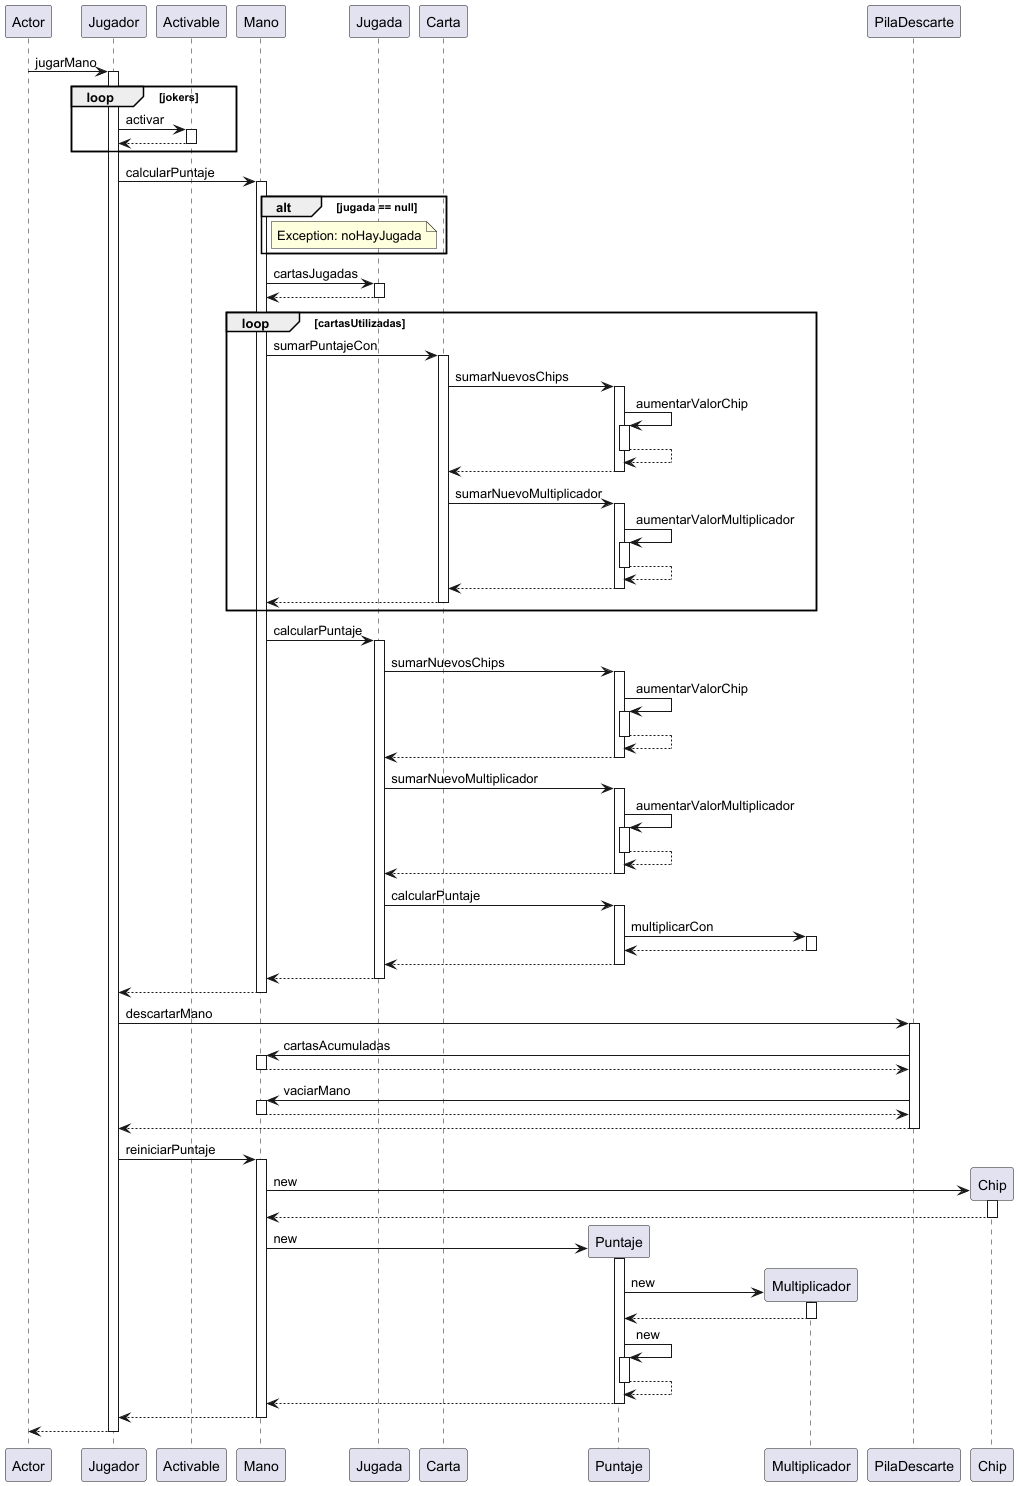
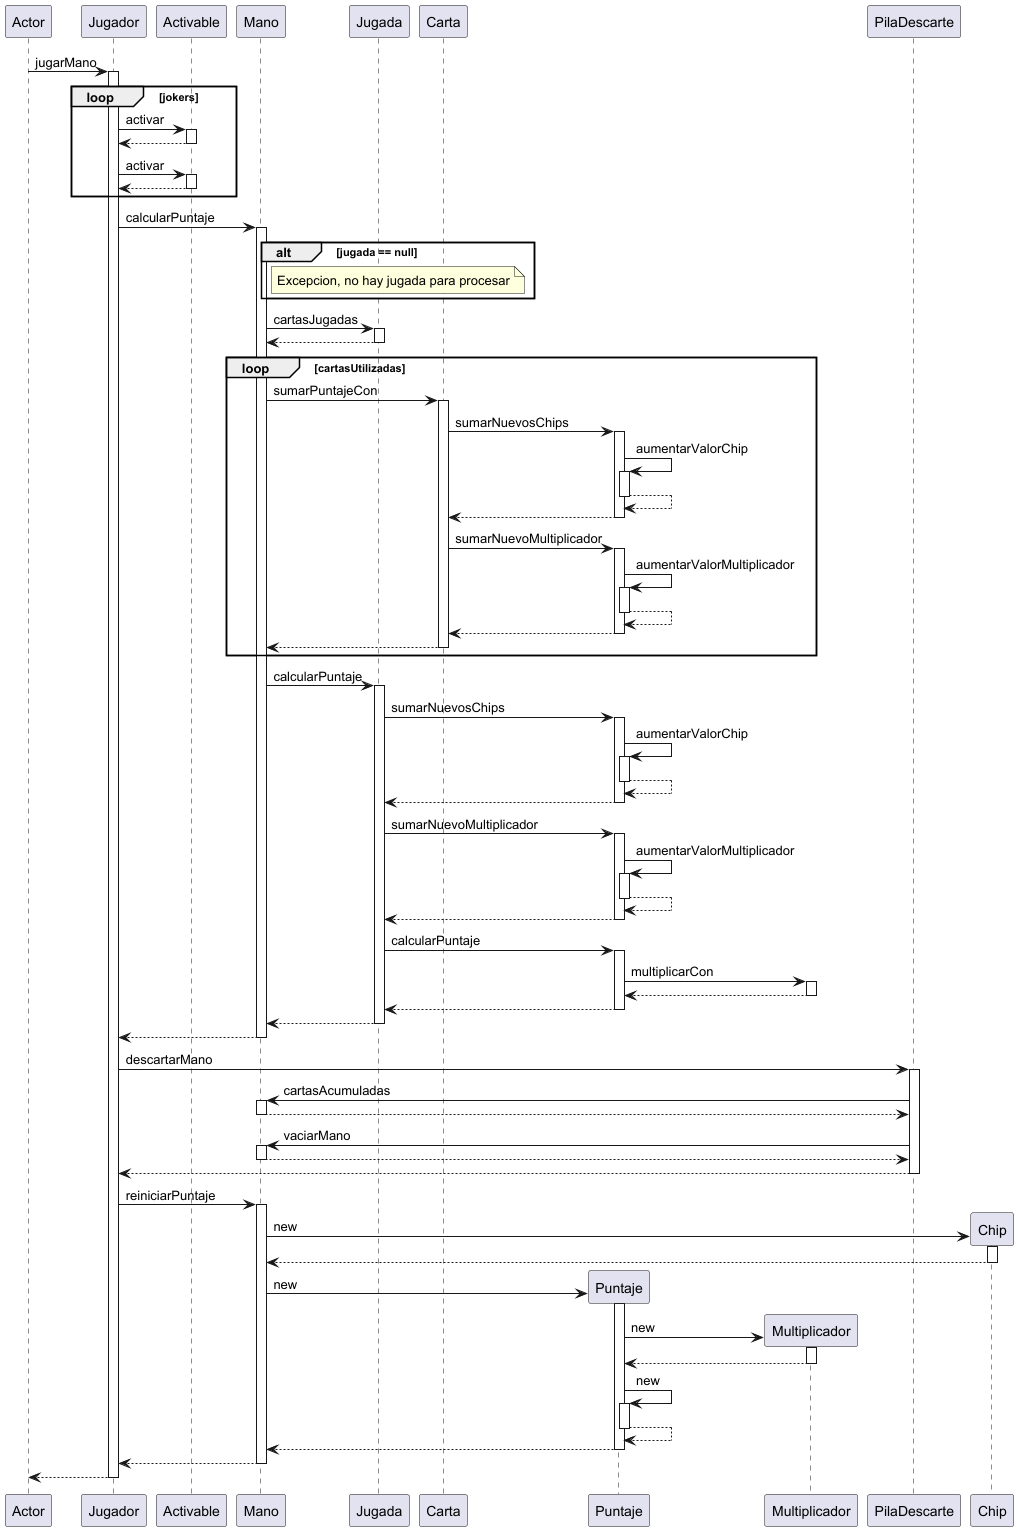
mas actualizaciones a diagramas

diff --git a/src/main/java/Modelo/Usuario/Jugador.java b/src/main/java/Modelo/Usuario/Jugador.java
@@ -164,6 +164,7 @@ public class Jugador {
         this.cantidadJugadas--;
         for (Activable joker: jokers){
             joker.activar(mano, "Mano Jugada");
+            joker.activar(mano, "1 En");
         }
 
         puntos += mano.calcularPuntaje();
